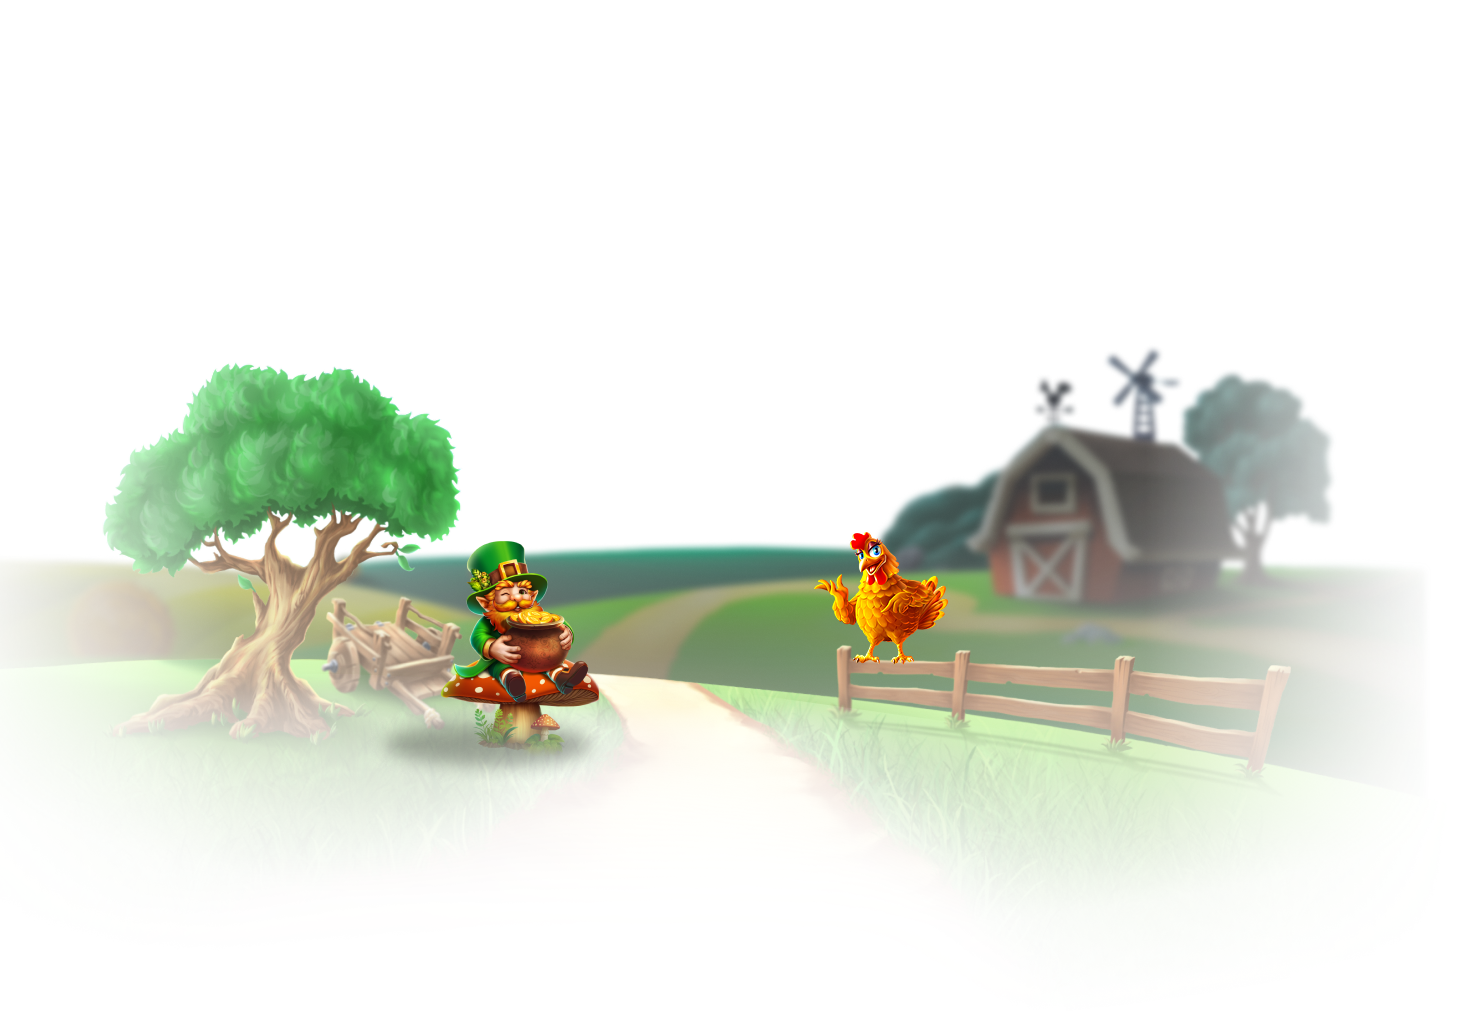
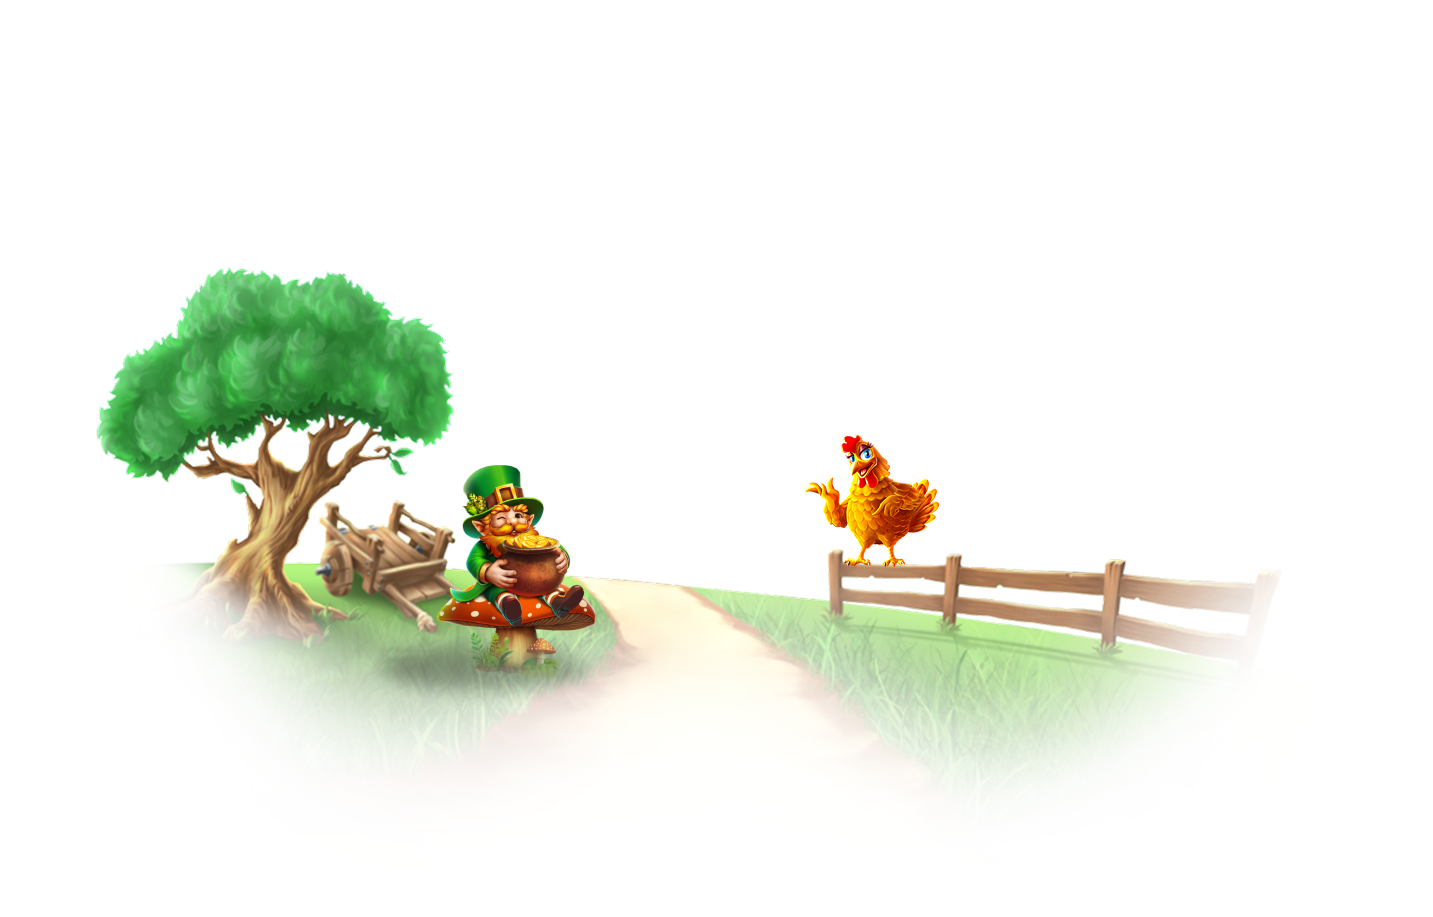
im

Changed region(s): [[0.0, 0.2748, 0.9518, 0.7939]]

diff --git a/im/index.html b/im/index.html
@@ -13,7 +13,7 @@
     <main class="studio-page__main">
         <header class="studio-page__hero" data-parallax-section>
             <div class="studio-page__blob studio-page__blob--top"></div>
-            <div class="studio-page__layer studio-page__layer--layer-1 studio-page__parallax" data-parallax-speed="20"></div>
+            <div class="studio-page__layer studio-page__layer--layer-1 studio-page__parallax" data-parallax-speed="15"></div>
             <div class="studio-page__layer studio-page__layer--layer-2 studio-page__parallax" data-parallax-speed="10"></div>
             <div class="studio-page__scene">
                 <div class="studio-page__scene-figure studio-page__scene-figure--left">

diff --git a/css/casino-content/im.css b/css/casino-content/im.css
@@ -14,8 +14,7 @@
 
 .studio-page--im-theme .studio-page__layer--layer-1 {
   z-index: 0;
-  background-image: url("../../im/img/clouds-layer-0.png");
-  background-position: top center;
+  background-image: url("../../im/img/clouds-layer-0-new.png");
   background-size: contain;
 }
 .studio-page--im-theme .studio-page__layer--layer-2 {
@@ -23,4 +22,10 @@
   background-image: url("../../im/img/house-tree.png");
   display: flex;
   align-items: flex-end;
+  background-size: contain;
+}
+@media (min-width: 768px) {
+  .studio-page--im-theme .studio-page__layer--layer-2 {
+    background-size: contain;
+  }
 }

diff --git a/scss/casino-content/im.scss b/scss/casino-content/im.scss
@@ -16,8 +16,7 @@
   .studio-page__layer {
     &--layer-1 {
       z-index: 0;
-      background-image: url('../../im/img/clouds-layer-0.png');
-      background-position: top center;
+      background-image: url('../../im/img/clouds-layer-0-new.png');
       background-size: contain;
     }
 
@@ -26,6 +25,11 @@
       background-image: url('../../im/img/house-tree.png');
       display: flex;
       align-items: flex-end;
+      background-size: contain;
+
+      @media (min-width: 768px) {
+        background-size: contain;
+      }
     }
   }
 }
